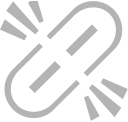
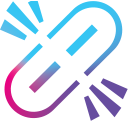
Settings Style Tweaks, production build ready

diff --git a/src/screens/SettingsScreen.js b/src/screens/SettingsScreen.js
@@ -2,6 +2,7 @@ import React, { Component } from 'react';
 import {
   View,
   Text,
+  Image,
   FlatList,
   StyleSheet,
 } from 'react-native';
@@ -37,13 +38,30 @@ export default class SettingsScreen extends Component {
 
   }
 
+  // ADD HEADER COMPONENET
+  addHeaderComponent = (navigation) => {
+    navigation.setOptions({
+      headerLeft: (() => {
+        return null;
+      }),
+    });
+  }
+
   // FUNCTIONS
   // To Unarchive Message
   unarchiveMessages = async () => {
     const db = FeedDBHelper.getDB();
     await FeedDBHelper.unhideAllFeedItems(db);
 
-    this.showToast("All Messages Unarchived!", "", ToasterOptions.TYPE.GRADIENT_PRIMARY);
+    // Change the header back
+    this.addHeaderComponent(this.props.navigation);
+
+    this.showToast("Messages Unarchived! Restarting...", "", ToasterOptions.TYPE.GRADIENT_PRIMARY);
+
+    setTimeout(() => {
+      const { handleAppAuthState } = this.context;
+      handleAppAuthState(APP_AUTH_STATES.ONBOARDED);
+    }, 1500);
   }
 
   // To Reset Wallet
@@ -121,6 +139,10 @@ export default class SettingsScreen extends Component {
               keyExtractor={item => item.title}
               renderItem={this.renderItem}
             />
+            <View style={styles.appInfo}>
+              <Text style={styles.appText}>Ethereum Push Notification Service(Alpha) v0.1</Text>
+              <Image style={styles.appImage} source={require('assets/ui/fulllogo.png')} />
+            </View>
           </View>
         </SafeAreaView>
 
@@ -160,4 +182,25 @@ const styles = StyleSheet.create({
   settings: {
 
   },
+  appInfo: {
+    flexDirection: 'row',
+    alignItems: 'center',
+    justifyContent: 'center',
+    paddingVertical: 5,
+    paddingHorizontal: 15,
+    marginLeft: 80,
+  },
+  appImage: {
+    height: 40,
+    width: 60,
+    resizeMode: 'contain',
+    padding: 10,
+  },
+  appText: {
+    flex: 1,
+    padding: 10,
+    textAlign: 'right',
+    fontSize: 12,
+    color: GLOBALS.COLORS.MID_GRAY,
+  }
 });

diff --git a/src/components/ui/ProfileDisplayer.js b/src/components/ui/ProfileDisplayer.js
@@ -26,7 +26,6 @@ import ENSButton from 'src/components/buttons/ENSButton';
 
 import Web3Helper from 'src/helpers/Web3Helper';
 
-import AuthContext, {APP_AUTH_STATES} from 'src/components/auth/AuthContext';
 import GLOBALS from 'src/Globals';
 
 const MARGIN_RIGHT = 120;

diff --git a/src/components/buttons/ImageTitleButton.js b/src/components/buttons/ImageTitleButton.js
@@ -46,5 +46,6 @@ const styles = StyleSheet.create({
     margin: 10,
     fontSize: 14,
     fontWeight: '400',
+    fontWeight: '200',
   }
 });
